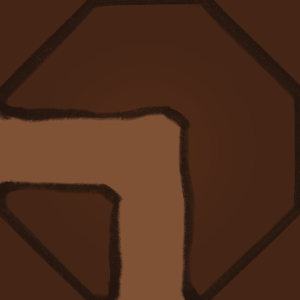
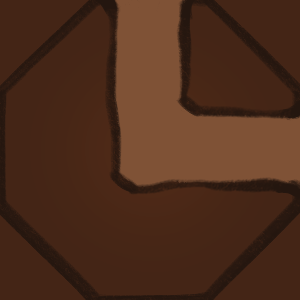
new tiles

diff --git a/src/scenes/Preloader.ts b/src/scenes/Preloader.ts
@@ -71,6 +71,16 @@ export class Preloader extends Scene
         this.load.image('hole_0111', 'assets/images/tiles/hole4.png');
         this.load.image('hole_1111', 'assets/images/tiles/hole5.png');
 
+        this.load.image('tunnel_shell_0000', 'assets/images/tiles/pantsir1.png');
+        this.load.image('tunnel_shell_1010', 'assets/images/tiles/pantsir2.png');
+        this.load.image('tunnel_shell_1100', 'assets/images/tiles/pantsir3.png');
+        this.load.image('tunnel_shell_1110', 'assets/images/tiles/pantsir4.png');
+        this.load.image('tunnel_shell_1111', 'assets/images/tiles/pantsir5.png');
+
+        this.load.image('shroom_shell_1000', 'assets/images/tiles/pantsir griby1.png');
+        this.load.image('shroom_shell_1100', 'assets/images/tiles/pantsir griby2.png');
+        this.load.image('shroom_shell_1101', 'assets/images/tiles/pantsir griby3.png');
+        this.load.image('shroom_shell_1111', 'assets/images/tiles/pantsir griby4.png');
         // ANIMATIONS
         // this.load.atlas('time', 'assets/anim/time.png', 'assets/anim/time.json');
     }
